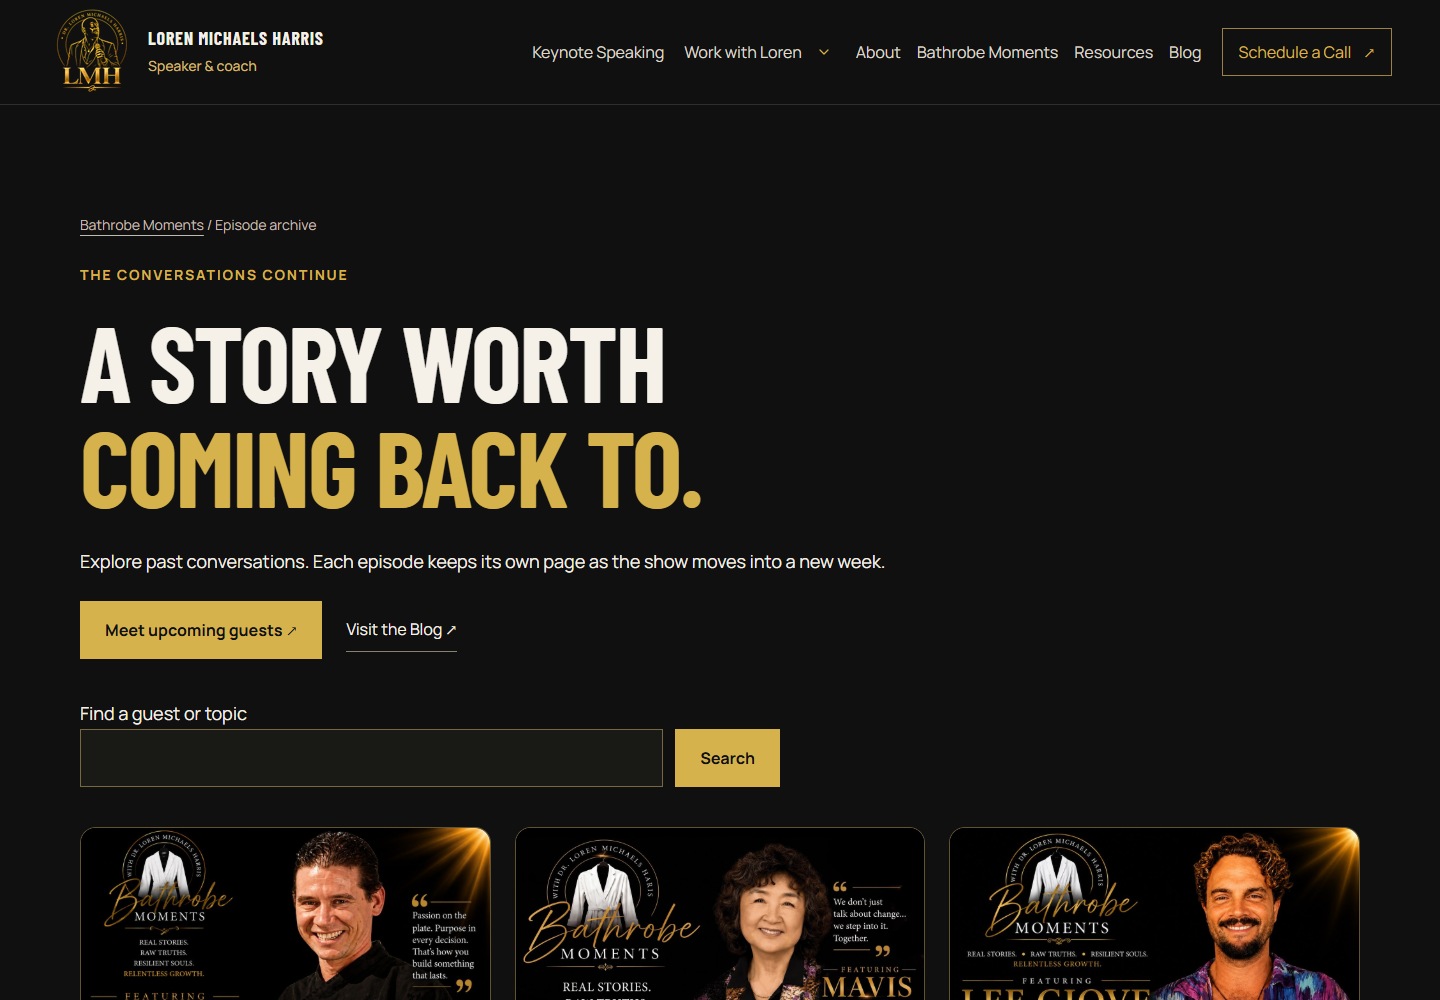
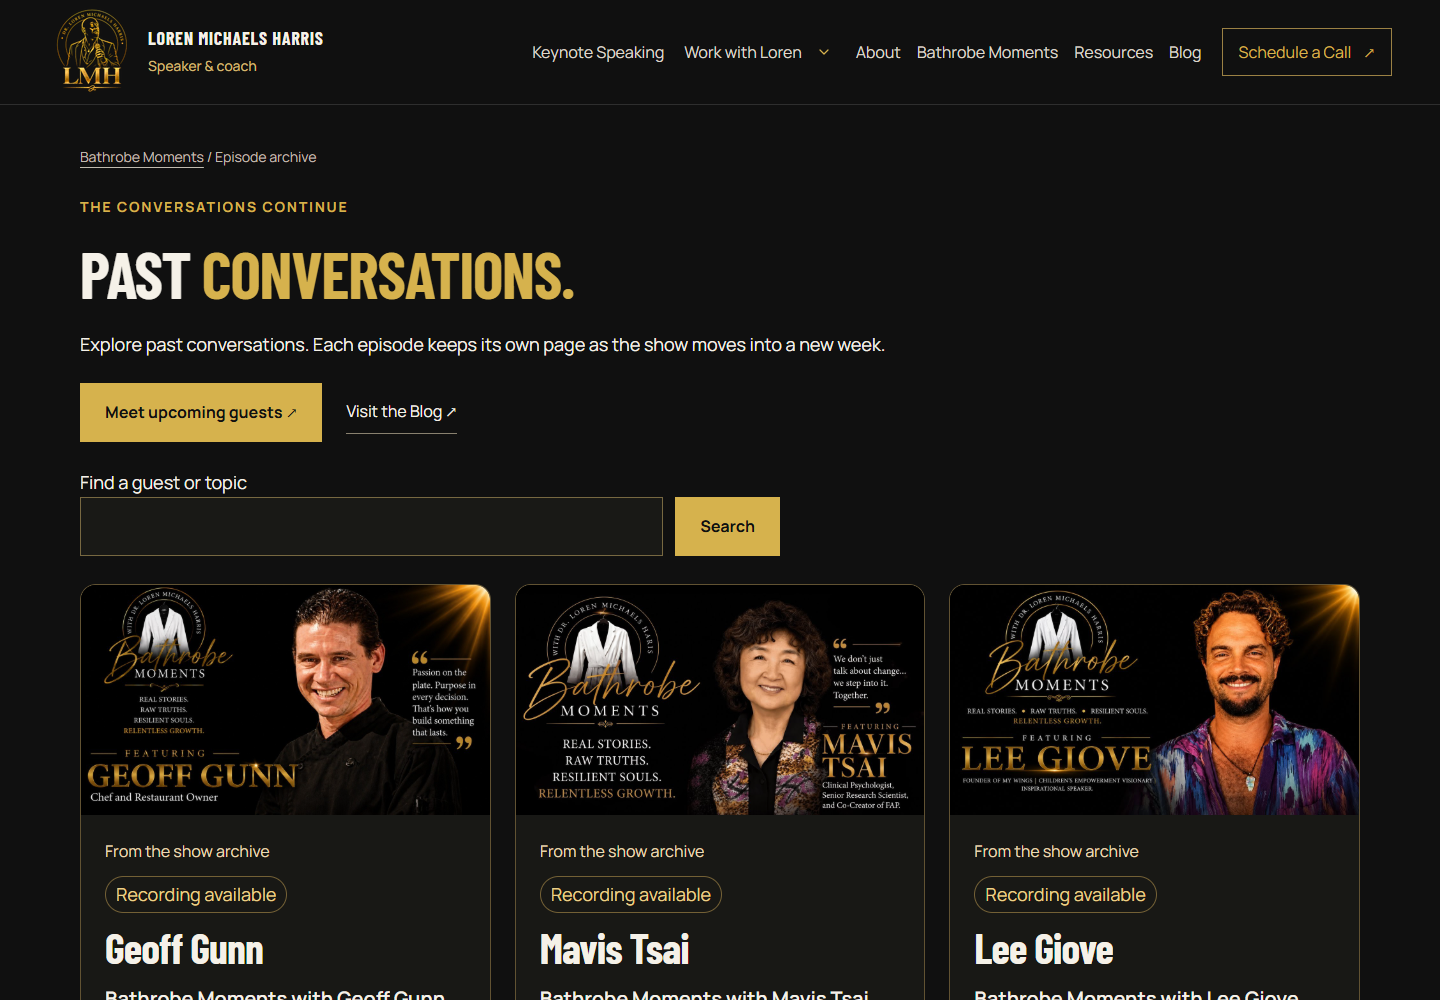
Complete compact archive review and matching visual comparisons

Changed region(s): [[0.0312, 0.155, 0.625, 1.0], [0.6562, 0.558, 0.9688, 1.0], [0.375, 0.837, 0.625, 1.0]]

diff --git a/src/styles/launch.css b/src/styles/launch.css
@@ -99,3 +99,4 @@
 @media(max-width:1100px){.weekly-banner-grid,.episode-grid{grid-template-columns:repeat(2,minmax(0,1fr))}.lineup-week-heading{display:block}.lineup-week-heading .week-tabs{margin-top:20px}.episode-card.episode-featured{grid-template-columns:1fr}.episode-featured .episode-card-copy{padding:26px}}
 @media(max-width:600px){.lineup-v8 .section-heading{display:block}.lineup-v8 .section-heading>a{display:inline-block;margin-top:18px}.episode-grid{grid-template-columns:1fr}.weekly-banner-grid{display:flex;overflow-x:auto;scroll-snap-type:x mandatory;padding-bottom:18px;gap:16px}.weekly-banner-grid .episode-card{flex:0 0 88%;scroll-snap-align:start}.lineup-scroll-controls:not([hidden]){display:flex;justify-content:flex-end;gap:12px;margin:16px 0}.lineup-scroll-controls button{width:48px;height:48px;background:transparent;color:var(--cream);border:1px solid var(--gold);border-radius:50%;font-size:24px}.episode-card-copy{padding:22px}.episode-featured .episode-card-copy{padding:22px}.episode-card.episode-featured{margin-bottom:32px}.lineup-week-heading .week-tabs a{font-size:16px;padding:10px 14px}.episode-detail-v8{padding-top:28px}.lineup-notice{padding:22px}}
 .schedule-intro h1{font-size:clamp(40px,5vw,60px);margin:14px 0;max-width:none}.schedule-intro{padding-top:28px;padding-bottom:16px}.schedule-intro .section-jumps{margin-top:20px;padding-block:16px}.lineup-v8.lineup-standalone{padding-top:24px}.lineup-standalone .section-heading{margin-bottom:20px}
+.episode-archive{padding-top:40px}.episode-archive h1{font-size:clamp(42px,5vw,64px);line-height:1.05;margin:18px 0 22px}.episode-archive>.actions{margin-top:22px}.episode-archive .episode-search{margin-top:26px}.episode-archive .episode-grid{margin-top:28px}

diff --git a/docs/EPISODE-V8-REVIEW.md b/docs/EPISODE-V8-REVIEW.md
@@ -23,3 +23,7 @@ Use Add an episode directly; no guest application or Calendly booking is require
 Move to Trash opens a named confirmation. It removes public visibility but retains the row, slug, banner and audit trail. Restore as draft never republishes automatically. There is no permanent deletion or automatic purge. Calendar reservations remain independently managed in Calendly.
 
 No database migration or credential change is required: the optional Trash fields live in existing episode JSON payloads. Backups include these records. Dynamic banner responses use no-store so removed publication permission is checked on each new request. Already downloaded copies cannot be recalled.
+
+## Hosted preview
+
+A fresh private backup downloaded successfully before rollout. The feature build completed on Hostinger. The authenticated inventory retained all eight episodes (two drafts and six published), including the user's manually created draft; all filters and Trash links rendered. No real publication states were changed. Matching empty-state/source-episode comparisons are retained separately from the populated local-fixture demonstrations (`populated-*`). Keyboard week navigation and 200% equivalent viewport reflow also passed.
